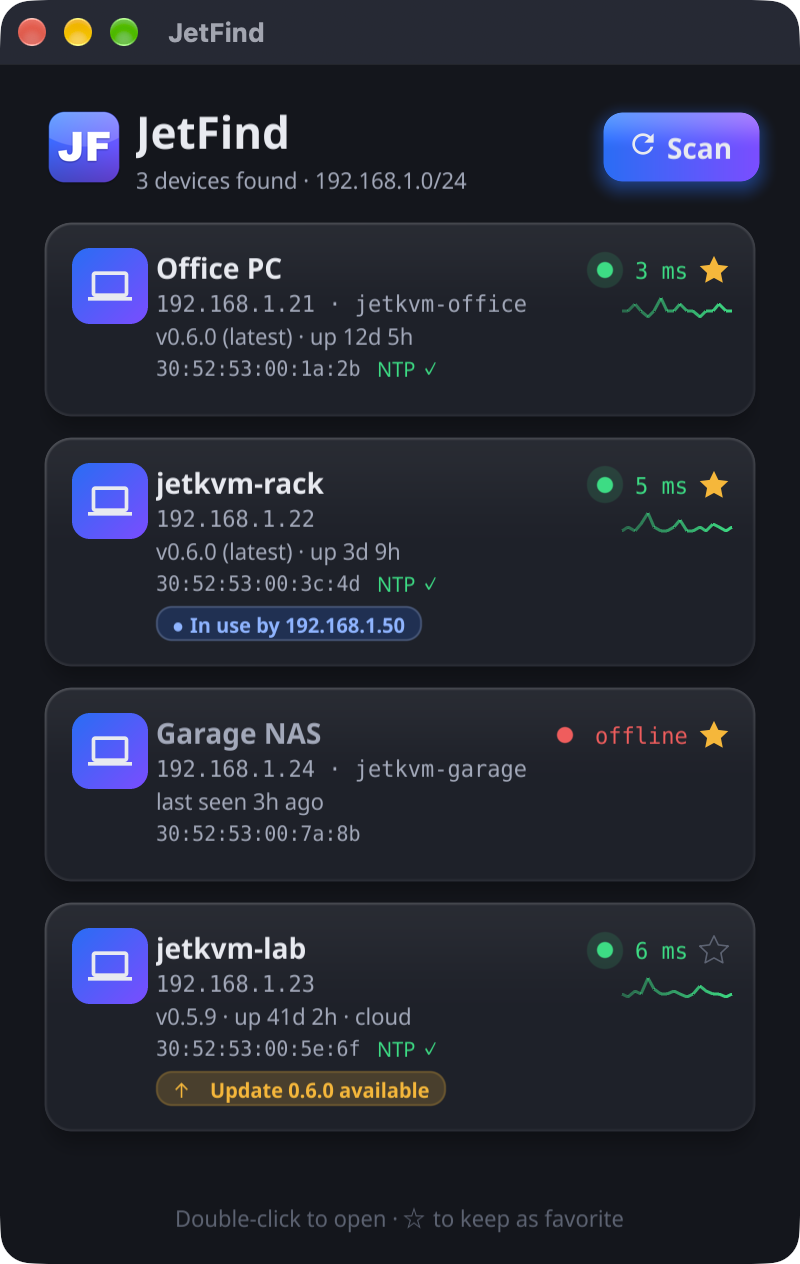
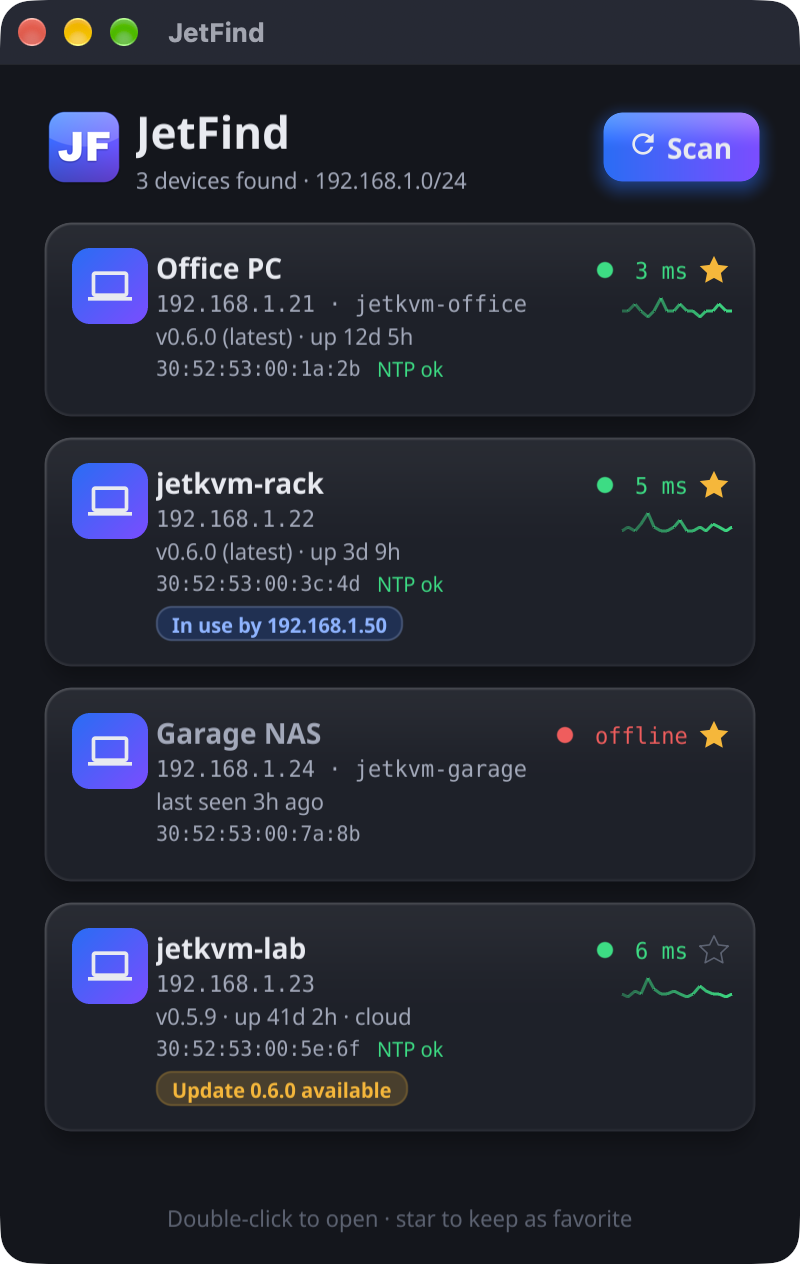
Cut idle CPU and memory: pulse on ping, no fallback fonts
Measured in demo mode (4 devices, idle):
  CPU        5.6 %  -> 0.4 %
  footprint  229 MB -> 110 MB
  Go heap    51 MB  -> 22 MB, no allocations while idle
  startup    ~8 % faster to first frame

- The status dot no longer pulses forever (which repainted the whole
  window at 60 fps); it sends one ring per successful ping instead.
- Drop ●, ✓, ↑ and ☆ from UI text. They are missing from Fyne's bundled
  font, which made it scan and load ~24 MB of system fallback fonts.
- Use the 256 px icon for the window and header instead of decoding the
  1024 px bundle icon.
- Reuse the ping graph's line segments instead of allocating new ones on
  every layout.

diff --git a/effects.go b/effects.go
@@ -53,37 +53,39 @@ func gradientTile(size int, radius float64, from, to color.NRGBA) image.Image {
 	return img
 }
 
-// statusDot is a small coloured dot with an optional radar-style pulse ring.
+// statusDot is a small coloured dot that sends out one radar-style ring
+// each time pulse is called. It is idle between pulses, so a window full of
+// devices does not repaint continuously.
 type statusDot struct {
 	widget.BaseWidget
 	dot, halo *canvas.Circle
 	col       color.Color
-	pulse     float32
+	phase     float32 // 0→1 during a pulse; 1 when idle (ring invisible)
 	anim      *fyne.Animation
 }
 
 func newStatusDot() *statusDot {
-	s := &statusDot{dot: canvas.NewCircle(colFaint), halo: canvas.NewCircle(color.Transparent), col: colFaint}
+	s := &statusDot{dot: canvas.NewCircle(colFaint), halo: canvas.NewCircle(color.Transparent), col: colFaint, phase: 1}
 	s.ExtendBaseWidget(s)
 	return s
 }
 
-// set changes the colour and starts or stops the pulse.
-func (s *statusDot) set(c color.Color, pulsing bool) {
+// set changes the colour.
+func (s *statusDot) set(c color.Color) {
 	s.col = c
 	s.dot.FillColor = c
 	s.dot.Refresh()
-	if pulsing && s.anim == nil {
-		s.anim = fyne.NewAnimation(1800*time.Millisecond, func(v float32) {
-			s.pulse = v
-			s.layoutHalo()
-		})
-		s.anim.Curve = fyne.AnimationEaseOut
-		s.anim.RepeatCount = fyne.AnimationRepeatForever
-		s.anim.Start()
-	} else if !pulsing {
-		s.stop()
-	}
+}
+
+// pulse sends out a single ring.
+func (s *statusDot) pulse() {
+	s.stop()
+	s.anim = fyne.NewAnimation(1400*time.Millisecond, func(v float32) {
+		s.phase = v
+		s.layoutHalo()
+	})
+	s.anim.Curve = fyne.AnimationEaseOut
+	s.anim.Start()
 }
 
 func (s *statusDot) stop() {
@@ -91,17 +93,17 @@ func (s *statusDot) stop() {
 		s.anim.Stop()
 		s.anim = nil
 	}
-	s.pulse = 1
+	s.phase = 1
 	s.layoutHalo()
 }
 
 func (s *statusDot) layoutHalo() {
 	size := s.Size()
 	cx, cy := size.Width/2, size.Height/2
-	r := 4 + s.pulse*7
+	r := 4 + s.phase*7
 	s.halo.Move(fyne.NewPos(cx-r, cy-r))
 	s.halo.Resize(fyne.NewSize(2*r, 2*r))
-	s.halo.FillColor = withAlpha(s.col, 0.55*(1-s.pulse))
+	s.halo.FillColor = withAlpha(s.col, 0.55*(1-s.phase))
 	s.halo.Refresh()
 }
 
@@ -121,18 +123,27 @@ func (r *statusDotRenderer) Objects() []fyne.CanvasObject {
 }
 func (r *statusDotRenderer) Destroy() {}
 
-// sparkline draws recent latency samples as a tiny line chart.
+// sparkline draws recent latency samples as a tiny line chart. Its line
+// segments are created once and reused.
 type sparkline struct {
 	widget.BaseWidget
 	values []time.Duration
 	col    color.Color
-	lines  []fyne.CanvasObject
+	segs   []*canvas.Line
+	objs   []fyne.CanvasObject
 }
 
 const sparkSamples = 24
 
 func newSparkline() *sparkline {
 	s := &sparkline{col: colOnline}
+	for range sparkSamples - 1 {
+		l := canvas.NewLine(color.Transparent)
+		l.StrokeWidth = 1.5
+		l.Hide()
+		s.segs = append(s.segs, l)
+		s.objs = append(s.objs, l)
+	}
 	s.ExtendBaseWidget(s)
 	return s
 }
@@ -148,8 +159,10 @@ type sparkRenderer struct{ s *sparkline }
 
 func (r *sparkRenderer) Layout(size fyne.Size) {
 	s := r.s
-	s.lines = s.lines[:0]
 	v := s.values
+	for i, l := range s.segs {
+		l.Hidden = i >= len(v)-1
+	}
 	if len(v) < 2 {
 		return
 	}
@@ -164,15 +177,14 @@ func (r *sparkRenderer) Layout(size fyne.Size) {
 		return fyne.NewPos(x0+step*float32(i), y)
 	}
 	for i := 1; i < len(v); i++ {
-		l := canvas.NewLine(withAlpha(s.col, 0.35+0.65*float32(i)/float32(len(v))))
-		l.StrokeWidth = 1.5
+		l := s.segs[i-1]
+		l.StrokeColor = withAlpha(s.col, 0.35+0.65*float32(i)/float32(len(v)))
 		l.Position1, l.Position2 = pt(i-1), pt(i)
-		s.lines = append(s.lines, l)
 	}
 }
 func (r *sparkRenderer) MinSize() fyne.Size           { return fyne.NewSize(64, 18) }
 func (r *sparkRenderer) Refresh()                     { r.Layout(r.s.Size()); canvas.Refresh(r.s) }
-func (r *sparkRenderer) Objects() []fyne.CanvasObject { return r.s.lines }
+func (r *sparkRenderer) Objects() []fyne.CanvasObject { return r.s.objs }
 func (r *sparkRenderer) Destroy()                     {}
 
 // offsetLayout draws its single child shifted down by dy; animating dy gives

diff --git a/card.go b/card.go
@@ -208,9 +208,14 @@ func (c *deviceCard) stop() {
 }
 
 // setStatus updates the live info shown on the card.
+// A fresh successful ping makes the status dot pulse once.
 func (c *deviceCard) setStatus(st deviceStatus) {
+	fresh := st.online && st.lastSeen.After(c.status.lastSeen)
 	c.status = st
 	c.applyStatus()
+	if fresh && c.dot != nil {
+		c.dot.pulse()
+	}
 }
 
 func (c *deviceCard) applyStatus() {
@@ -222,13 +227,13 @@ func (c *deviceCard) applyStatus() {
 	switch {
 	case !st.known:
 		col, c.ping.Text = colFaint, "…"
-		c.dot.set(col, false)
+		c.dot.set(col)
 	case !st.online:
 		col, c.ping.Text = colOffline, "offline"
-		c.dot.set(col, false)
+		c.dot.set(col)
 	default:
 		col, c.ping.Text = latencyColor(st.info.Latency), formatLatency(st.info.Latency)
-		c.dot.set(col, true)
+		c.dot.set(col)
 	}
 	c.ping.Color = col
 	c.spark.set(st.history, col)
@@ -264,15 +269,15 @@ func (c *deviceCard) applyStatus() {
 	c.clock.Text = ""
 	if st.known && st.online {
 		if st.info.ClockKnown {
-			c.clock.Text, c.clock.Color = "NTP ✓", colOnline
+			c.clock.Text, c.clock.Color = "NTP ok", colOnline
 			if !st.info.ClockSynced {
 				c.clock.Text, c.clock.Color = "Clock not synced", colWarn
 			}
 		}
 	}
 
-	showPill(c.inUse, c.inUseTx, st.online && st.info.ActiveClient != "", "● In use by "+st.info.ActiveClient)
-	showPill(c.update, c.updTx, st.online && scan.NewerVersion(st.latest, st.info.Version), "↑ Update "+st.latest+" available")
+	showPill(c.inUse, c.inUseTx, st.online && st.info.ActiveClient != "", "In use by "+st.info.ActiveClient)
+	showPill(c.update, c.updTx, st.online && scan.NewerVersion(st.latest, st.info.Version), "Update "+st.latest+" available")
 	if c.inUse.Visible() || c.update.Visible() {
 		c.pills.Show()
 	} else {

diff --git a/main.go b/main.go
@@ -34,10 +34,13 @@ const (
 	statusInterval = 5 * time.Second
 )
 
-//go:embed Icon.png
+// The 1024 px Icon.png is only for the app bundle; a 256 px copy is plenty
+// for the window and header and is much cheaper to decode at startup.
+//
+//go:embed docs/icon.png
 var iconPNG []byte
 
-var appIcon = fyne.NewStaticResource("Icon.png", iconPNG)
+var appIcon = fyne.NewStaticResource("icon.png", iconPNG)
 
 type ui struct {
 	app      fyne.App
@@ -245,7 +248,7 @@ func (u *ui) build() fyne.CanvasObject {
 	u.empty = container.NewVBox(layout.NewSpacer(), emptyTitle, emptyBody, layout.NewSpacer())
 	u.empty.Hide()
 
-	u.hint = canvas.NewText("Double-click to open · ☆ to keep as favorite", colFaint)
+	u.hint = canvas.NewText("Double-click to open · star to keep as favorite", colFaint)
 	u.hint.TextSize = 11
 	u.hint.Alignment = fyne.TextAlignCenter
 	u.hint.Hide()

diff --git a/README.md b/README.md
@@ -27,7 +27,7 @@ Each card shows live status, refreshed every 5 seconds:
 - **Uptime** since the JetKVM software last started.
 - **In use by …** when someone has an active remote session open, and from which IP.
 - **MAC address**, read from your computer's ARP table.
-- **Clock sync**: `NTP ✓` when the device's clock is synchronised.
+- **Clock sync**: `NTP ok` when the device's clock is synchronised.
 - **Not set up** for devices that haven't completed first-time setup, and **cloud** when JetKVM Cloud is connected.
 
 ## No login needed
